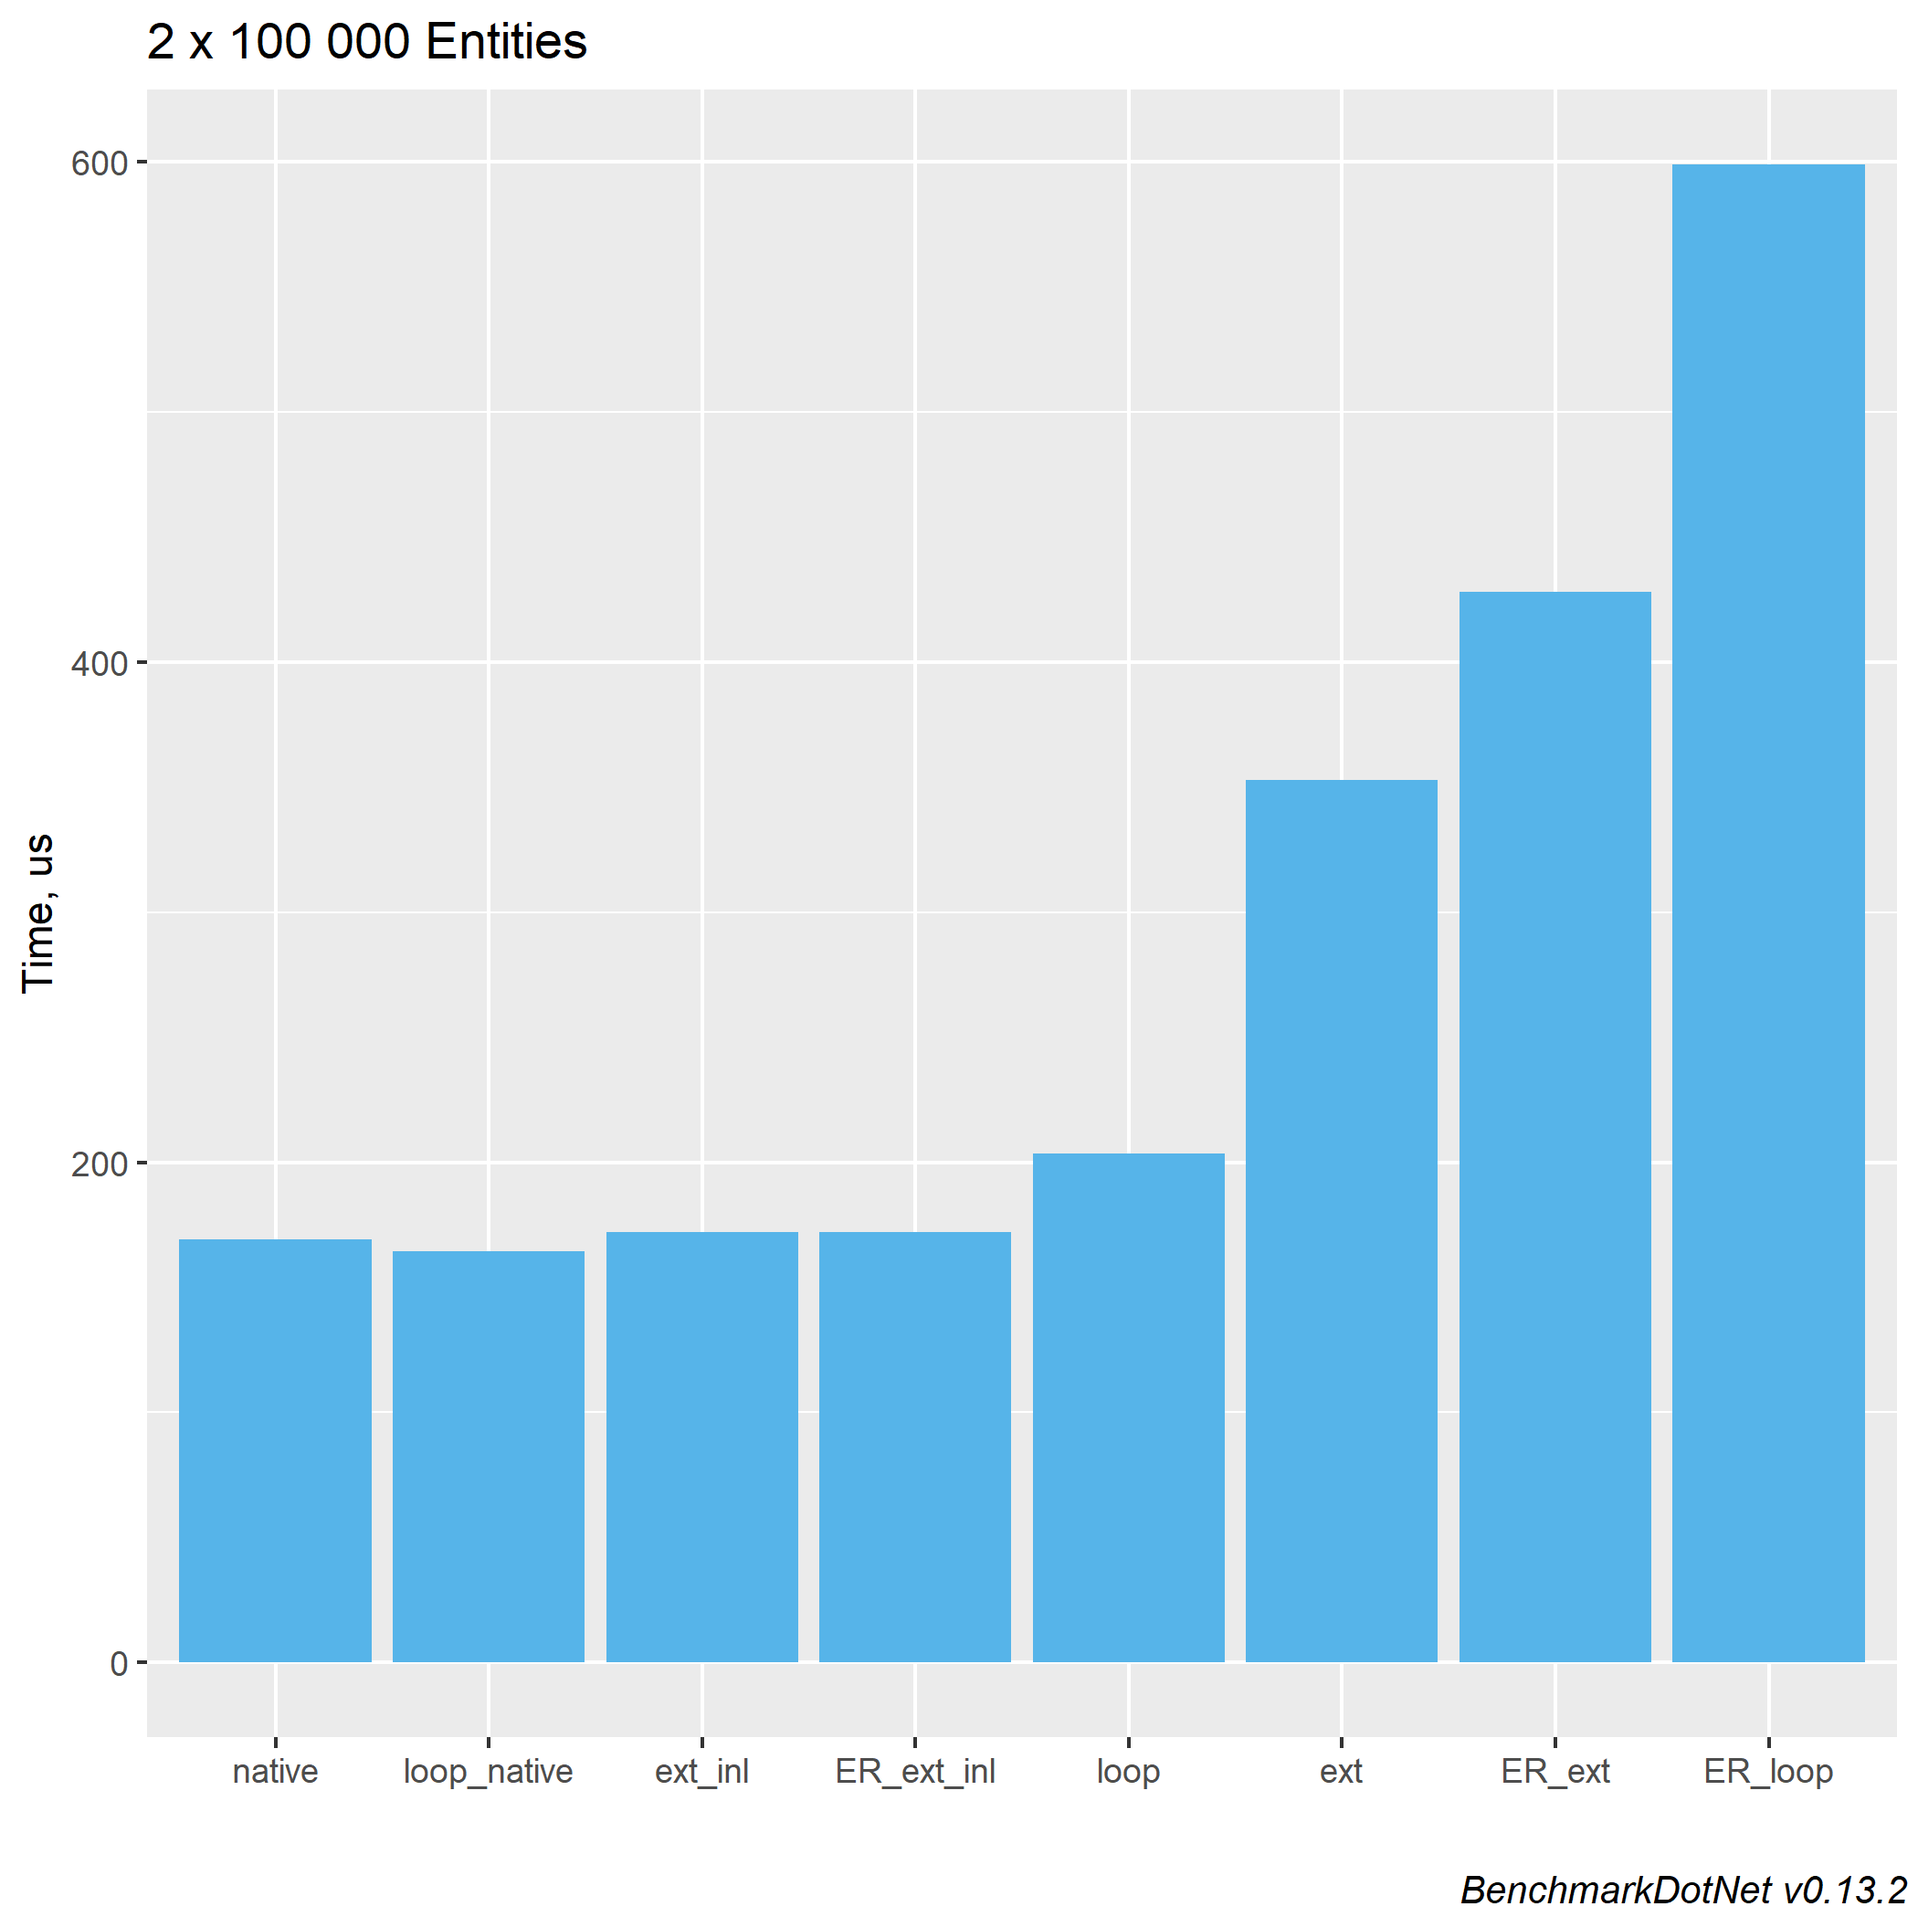
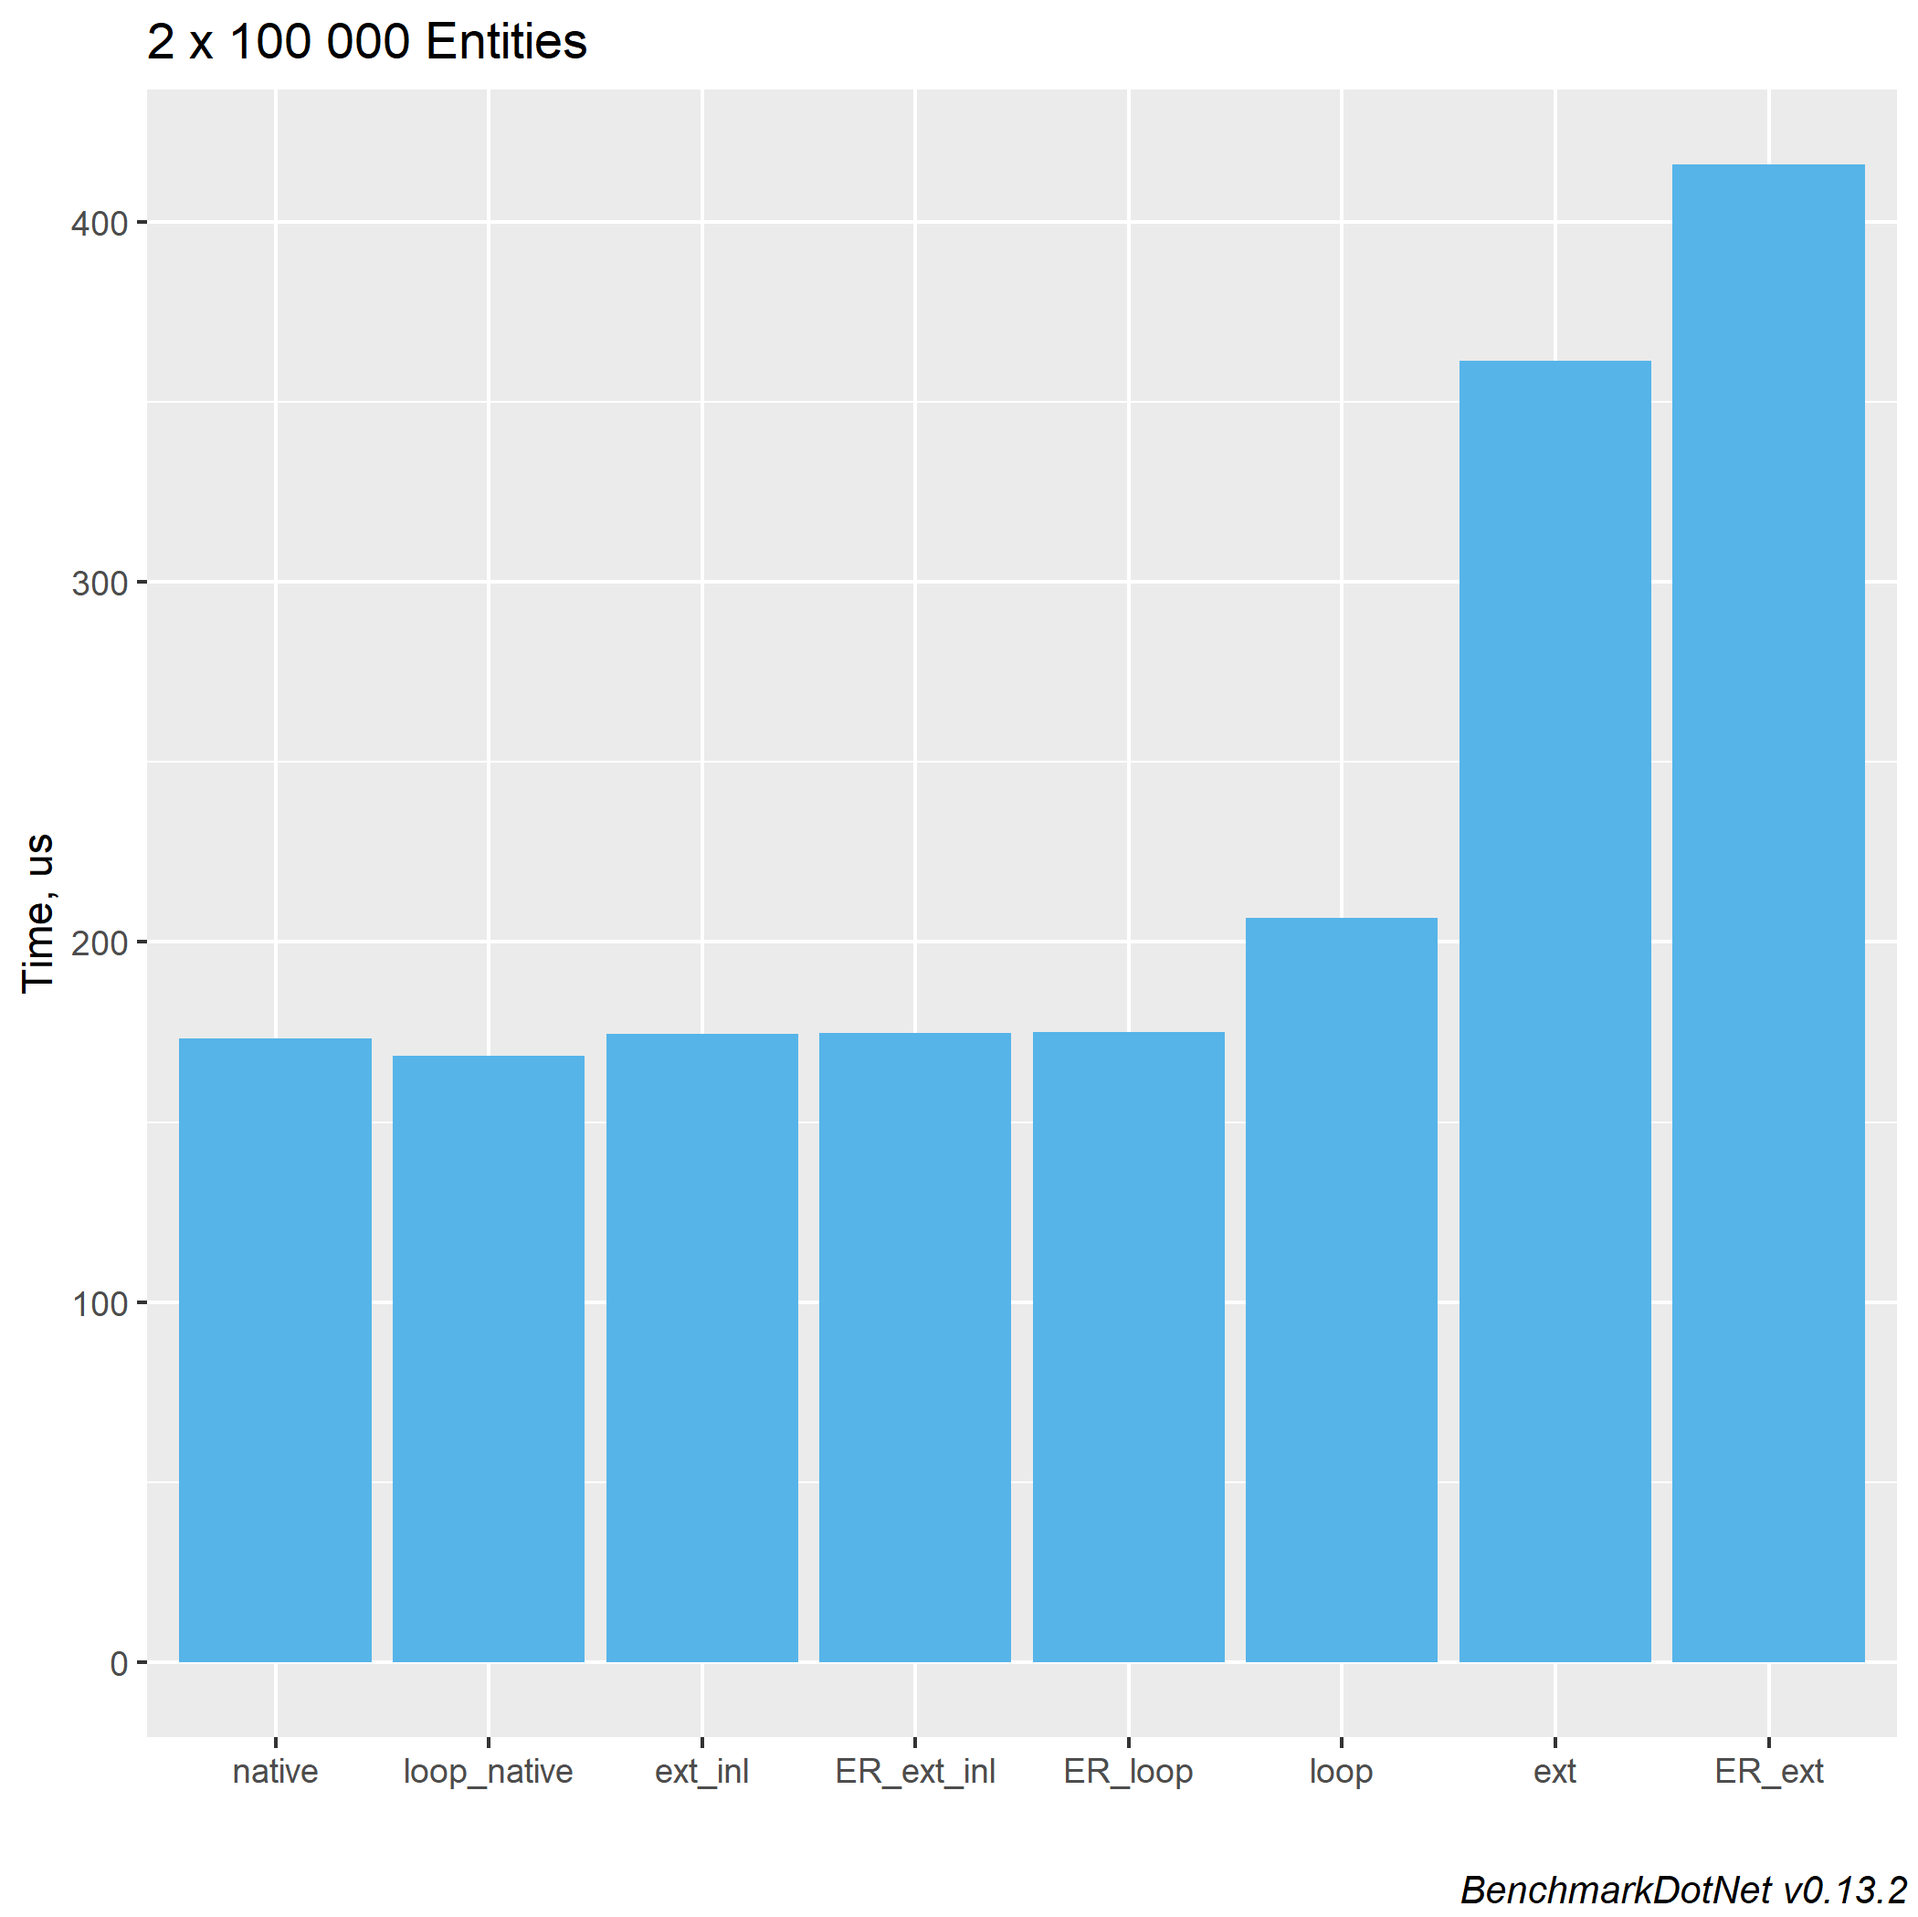
readme: Updates benchmark results

diff --git a/README.md b/README.md
@@ -290,7 +290,7 @@ static class UpdateTranslationSystem
 
 `ForEach` extension method calls can be [inlined](#inlining-source-generator).
 
-> **Info**: Inlining is the [fastest](#performance) way to iterate over components in managed code.
+> **Info**: This is one of the [fastest](#performance) ways to iterate over components
 
 ```c#
 static partial class UpdateTranslationSystem
@@ -369,8 +369,10 @@ static partial class UpdateTranslationSystem
 
 ## foreach loop
 
-EntityRef generator creates static methods `From(EntityArrays)` and `From(IComponentArray)` that
+EntityRef generator creates static method `From(IComponentArray)` that
 can be used with `foreach` loop:
+
+> **Info**: This is one of the [fastest](#performance) ways to iterate over components
 
 ```c#
 static partial class UpdateTranslationSystem
@@ -382,9 +384,10 @@ static partial class UpdateTranslationSystem
         public ref readonly Velocity Velocity;
     }
     
-    public static void Execute(EntityArrays entities, float deltaTime)
+    public static void Execute(EntityArrays entityArrays, float deltaTime)
     {
-        foreach (var entity in ThisEntity.From(entities))
+        foreach (var array in entityArrays)
+        foreach (var entity in ThisEntity.From(array))
         {
             entity.Translation += entity.Velocity * deltaTime;
         }
@@ -419,7 +422,7 @@ static partial class UpdateTranslationSystem
 
 `ForEach` extension method calls can be [inlined](#inlining-source-generator).
 
-> **Info**: Inlining is the [fastest](#performance) way to iterate over components in managed code.
+> **Info**: This is one of the [fastest](#performance) ways to iterate over components
 
 ```c#
 static partial class UpdateTranslationSystem
@@ -661,30 +664,30 @@ DefaultJob : .NET 7.0.1 (7.0.122.56804), X64 RyuJIT AVX2
 
 ### 2 x 1 000 Entities
 
-| Method      | N    |     Mean |     Error |    StdDev | Ratio | Allocated |
-|-------------|------|---------:|----------:|----------:|------:|----------:|
-| native      | 1000 | 1.594 μs | 0.0084 μs | 0.0074 μs |  1.00 |         - |
-| loop_native | 1000 | 1.847 μs | 0.0039 μs | 0.0035 μs |  1.16 |         - |
-| ext_inl     | 1000 | 1.905 μs | 0.0184 μs | 0.0163 μs |  1.20 |         - |
-| ER_ext_inl  | 1000 | 1.902 μs | 0.0112 μs | 0.0105 μs |  1.19 |         - |
-| loop        | 1000 | 2.201 μs | 0.0217 μs | 0.0182 μs |  1.38 |         - |
-| ext         | 1000 | 3.761 μs | 0.0453 μs | 0.0378 μs |  2.36 |     120 B |
-| ER_ext      | 1000 | 4.720 μs | 0.0464 μs | 0.0411 μs |  2.96 |     120 B |
-| ER_loop     | 1000 | 6.211 μs | 0.0675 μs | 0.0527 μs |  3.90 |         - |
+|      Method |     Mean |     Error |    StdDev | Ratio | Allocated |
+|------------ |---------:|----------:|----------:|------:|----------:|
+|      native | 1.612 μs | 0.0036 μs | 0.0032 μs |  1.00 |         - |
+| loop_native | 1.858 μs | 0.0019 μs | 0.0018 μs |  1.15 |         - |
+|     ext_inl | 1.963 μs | 0.0381 μs | 0.0408 μs |  1.22 |         - |
+|  ER_ext_inl | 1.926 μs | 0.0029 μs | 0.0027 μs |  1.19 |         - |
+|     ER_loop | 1.931 μs | 0.0070 μs | 0.0065 μs |  1.20 |         - |
+|        loop | 2.217 μs | 0.0072 μs | 0.0060 μs |  1.38 |         - |
+|         ext | 3.784 μs | 0.0480 μs | 0.0513 μs |  2.35 |     120 B |
+|      ER_ext | 4.028 μs | 0.0079 μs | 0.0070 μs |  2.50 |     120 B |
 
 ![](./Docs/1_000.png)
 
 ### 2 x 100 000 Entities
 
-| Method      | N      |     Mean |   Error |  StdDev | Ratio | Allocated |
-|-------------|--------|---------:|--------:|--------:|------:|----------:|
-| native      | 100000 | 169.3 μs | 0.51 μs | 0.48 μs |  1.00 |         - |
-| loop_native | 100000 | 164.5 μs | 0.37 μs | 0.33 μs |  0.97 |         - |
-| ext_inl     | 100000 | 172.0 μs | 0.46 μs | 0.43 μs |  1.02 |         - |
-| ER_ext_inl  | 100000 | 172.3 μs | 0.72 μs | 0.68 μs |  1.02 |         - |
-| loop        | 100000 | 203.5 μs | 0.61 μs | 0.54 μs |  1.20 |         - |
-| ext         | 100000 | 353.0 μs | 0.45 μs | 0.42 μs |  2.09 |     120 B |
-| ER_ext      | 100000 | 428.3 μs | 0.28 μs | 0.24 μs |  2.53 |     120 B |
-| ER_loop     | 100000 | 598.9 μs | 1.14 μs | 1.01 μs |  3.54 |         - |
+|      Method |     Mean |   Error |  StdDev | Ratio | Allocated |
+|------------ |---------:|--------:|--------:|------:|----------:|
+|      native | 173.3 μs | 0.58 μs | 0.49 μs |  1.00 |         - |
+| loop_native | 168.4 μs | 0.40 μs | 0.37 μs |  0.97 |         - |
+|     ext_inl | 174.4 μs | 1.76 μs | 1.37 μs |  1.01 |         - |
+|  ER_ext_inl | 174.7 μs | 0.53 μs | 0.44 μs |  1.01 |         - |
+|     ER_loop | 174.9 μs | 0.64 μs | 0.60 μs |  1.01 |         - |
+|        loop | 206.8 μs | 0.71 μs | 0.66 μs |  1.19 |         - |
+|         ext | 361.5 μs | 1.58 μs | 1.47 μs |  2.09 |     120 B |
+|      ER_ext | 415.8 μs | 1.01 μs | 0.94 μs |  2.40 |     120 B |
 
 ![](./Docs/100_000.png)
